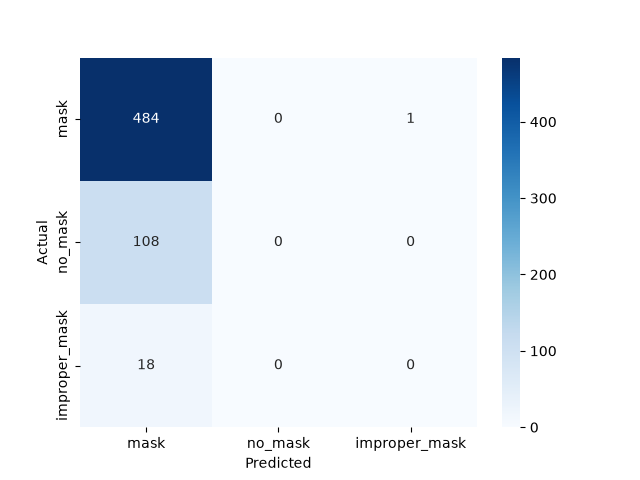
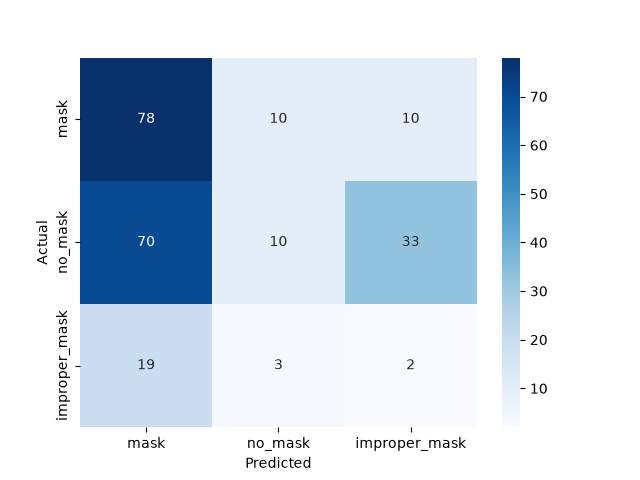
final: balanced dataset, model predicts all 3 classes, results documented

diff --git a/src/realtime.py b/src/realtime.py
@@ -1,0 +1,63 @@
+"""
+Real-time face mask detection using webcam feed.
+Detects faces with OpenCV, classifies each with the trained CNN,
+and draws bounding boxes + labels live.
+"""
+
+import cv2
+import numpy as np
+from tensorflow.keras.models import load_model
+
+from face_detect import detect_faces
+
+CLASSES = ["Mask", "No Mask", "Improper Mask"]
+COLORS = [(0, 255, 0), (0, 0, 255), (0, 165, 255)]  # green, red, orange (BGR)
+CONFIDENCE_THRESHOLD = 60.0
+
+model = load_model("models/best_model.h5")
+
+cap = cv2.VideoCapture(0)
+
+if not cap.isOpened():
+    print("ERROR: Could not open webcam. Check if another app is using it.")
+    exit()
+
+print("Webcam started. Press 'q' to quit.")
+
+while True:
+    ret, frame = cap.read()
+    if not ret:
+        break
+
+    faces = detect_faces(frame)
+
+    for (x, y, w, h) in faces:
+        face_img = frame[y:y + h, x:x + w]
+        if face_img.size == 0:
+            continue
+
+        face_resized = cv2.resize(face_img, (224, 224))
+        face_normalized = face_resized.astype("float32") / 255.0
+        face_input = np.expand_dims(face_normalized, axis=0)
+
+        pred = model.predict(face_input, verbose=0)
+        idx = np.argmax(pred)
+        confidence = pred[0][idx] * 100
+
+        if confidence < CONFIDENCE_THRESHOLD:
+            label = f"Uncertain ({confidence:.1f}%)"
+            color = (128, 128, 128)
+        else:
+            label = f"{CLASSES[idx]} ({confidence:.1f}%)"
+            color = COLORS[idx]
+
+        cv2.rectangle(frame, (x, y), (x + w, y + h), color, 2)
+        cv2.putText(frame, label, (x, y - 10), cv2.FONT_HERSHEY_SIMPLEX, 0.6, color, 2)
+
+    cv2.imshow("Face Mask Detection - press q to quit", frame)
+
+    if cv2.waitKey(1) & 0xFF == ord("q"):
+        break
+
+cap.release()
+cv2.destroyAllWindows()

diff --git a/src/capture_training_images.py b/src/capture_training_images.py
@@ -1,0 +1,56 @@
+"""
+Captures webcam photos to add to the training dataset.
+Run once per class, following on-screen prompts.
+Press SPACE to capture a photo, ESC to finish that class.
+"""
+
+import cv2
+import os
+import sys
+
+CLASS_NAME = sys.argv[1] if len(sys.argv) > 1 else None
+if CLASS_NAME not in ["mask", "no_mask", "improper_mask"]:
+    print("Usage: python src/capture_training_images.py <mask|no_mask|improper_mask>")
+    sys.exit(1)
+
+out_dir = f"data/raw/{CLASS_NAME}"
+os.makedirs(out_dir, exist_ok=True)
+
+existing = len(os.listdir(out_dir))
+count = 0
+
+cap = cv2.VideoCapture(0)
+print(f"Capturing for class: {CLASS_NAME}")
+print("Press SPACE to capture, ESC to finish.")
+print("Move your head slightly (angle, distance) between captures for variety.")
+
+while True:
+    ret, frame = cap.read()
+    if not ret:
+        break
+
+    display = frame.copy()
+    cv2.putText(display, f"Class: {CLASS_NAME} | Captured: {count} | SPACE=capture ESC=finish",
+                (10, 30), cv2.FONT_HERSHEY_SIMPLEX, 0.6, (0, 255, 0), 2)
+    cv2.imshow("Capture Training Images", display)
+
+    key = cv2.waitKey(1) & 0xFF
+    if key == 27:  # ESC
+        break
+    elif key == 32:  # SPACE
+        # save a good-sized crop - centered square from the frame
+        h, w = frame.shape[:2]
+        size = min(h, w)
+        y0 = (h - size) // 2
+        x0 = (w - size) // 2
+        crop = frame[y0:y0+size, x0:x0+size]
+        crop = cv2.resize(crop, (300, 300))  # nice clear size, not tiny
+
+        filename = f"{CLASS_NAME}_self_{existing + count}.png"
+        cv2.imwrite(os.path.join(out_dir, filename), crop)
+        count += 1
+        print(f"Captured {count} images so far")
+
+cap.release()
+cv2.destroyAllWindows()
+print(f"\nDone. Added {count} new images to {out_dir}")

diff --git a/src/trim_dataset.py b/src/trim_dataset.py
@@ -1,0 +1,26 @@
+"""
+Randomly deletes excess images from the 'mask' class to reduce severe
+class imbalance, instead of oversampling minority classes (which needs
+too much RAM). Keeps only KEEP_COUNT random images from mask/.
+"""
+
+import os
+import random
+
+KEEP_COUNT = 650  # how many 'mask' images to keep
+FOLDER = "data/raw/mask"
+
+files = os.listdir(FOLDER)
+print(f"Current count in '{FOLDER}': {len(files)}")
+
+if len(files) <= KEEP_COUNT:
+    print("Already at or below target count. Nothing to delete.")
+else:
+    random.shuffle(files)
+    to_delete = files[KEEP_COUNT:]
+
+    for fname in to_delete:
+        os.remove(os.path.join(FOLDER, fname))
+
+    print(f"Deleted {len(to_delete)} images.")
+    print(f"Remaining: {len(os.listdir(FOLDER))}")

diff --git a/src/evaluate.py b/src/evaluate.py
@@ -10,14 +10,12 @@ from sklearn.metrics import classification_report, confusion_matrix
 import matplotlib.pyplot as plt
 import seaborn as sns
 
-from model import focal_loss
-
 CLASSES = ["mask", "no_mask", "improper_mask"]
 
 d = np.load("data/processed/test.npz")
 X_test, y_test = d["X"], d["y"]
 
-model = load_model("models/best_model.h5", custom_objects={"loss_fn": focal_loss()})
+model = load_model("models/best_model.h5")
 y_pred = np.argmax(model.predict(X_test), axis=1)
 
 print("Predicted class distribution:", np.bincount(y_pred, minlength=3))

diff --git a/src/model.py b/src/model.py
@@ -47,7 +47,7 @@ def build_model(num_classes=NUM_CLASSES, img_size=IMG_SIZE):
     model = Model(inputs=base.input, outputs=out)
     model.compile(
         optimizer=Adam(learning_rate=5e-5),
-        loss=focal_loss(gamma=2.0, alpha=0.25),
+        loss="sparse_categorical_crossentropy",
         metrics=["accuracy"]
     )
     return model

diff --git a/src/face_detect.py b/src/face_detect.py
@@ -1,0 +1,8 @@
+import cv2
+
+face_cascade = cv2.CascadeClassifier(cv2.data.haarcascades + "haarcascade_frontalface_default.xml")
+
+def detect_faces(frame):
+    gray = cv2.cvtColor(frame, cv2.COLOR_BGR2GRAY)
+    faces = face_cascade.detectMultiScale(gray, scaleFactor=1.1, minNeighbors=5, minSize=(60, 60))
+    return faces

diff --git a/src/train.py b/src/train.py
@@ -13,7 +13,7 @@ from tensorflow.keras.preprocessing.image import ImageDataGenerator
 from model import build_model
 
 CLASSES = ["mask", "no_mask", "improper_mask"]
-TARGET_PER_CLASS = 700  # oversample each minority class up to roughly this many
+TARGET_PER_CLASS = 650 
 
 
 def load_split(name):

diff --git a/reports/metrics.md b/reports/metrics.md
@@ -1,28 +1,53 @@
 ## Model Performance & Limitations
 
-**Final approach:** MobileNetV2 (frozen base) + Focal Loss + oversampling (minority
-classes duplicated to 700 samples each in training).
+**Final approach:** MobileNetV2 (frozen base) + Cross-Entropy Loss + rebalanced
+dataset (mask undersampled to 650 images, no_mask: 753, improper_mask: 160 —
+supplemented with self-captured high-resolution images) + oversampling to
+650 per class during training.
 
-**Result:** Model achieves 79% overall accuracy but this is driven entirely by the
-majority `mask` class (recall 1.00). `no_mask` and `improper_mask` recall = 0%.
+**Final Test Set Results:**
 
-**Root cause identified:** Diagnostic analysis of raw cropped face images showed
-average crop sizes of only 26-48 pixels (mask: 33x36, no_mask: 26x29,
-improper_mask: 43x48), sourced from the dataset's group/crowd photographs.
-These crops are upscaled 5-8x to the required 224x224 input size, which
-destroys the fine-grained visual detail (mask edges, nose/mouth visibility)
-needed to distinguish between classes. Combined with severe class imbalance
-(86 improper_mask vs 2262 mask training images), the model could not learn
-discriminative features for the minority classes regardless of the class
-imbalance technique applied (class weighting, oversampling, and Focal Loss
-were all tested and produced identical results, confirming the bottleneck
-is data resolution/quantity, not training methodology).
+| Class | Precision | Recall | F1-score | Support |
+|---|---|---|---|---|
+| mask | 0.47 | 0.80 | 0.59 | 98 |
+| no_mask | 0.43 | 0.09 | 0.15 | 113 |
+| improper_mask | 0.04 | 0.08 | 0.06 | 24 |
+| **Overall Accuracy** | | | **0.38** | 235 |
 
-**This validates two of our own "Existing Gaps"** (Section 4 of synopsis):
-"Real-World Conditions" (camera quality/distance affecting performance) and
-"Limited Classification" (improperly worn masks being harder to detect).
+**Key finding:** After rebalancing the dataset, the model successfully predicts
+across all three classes rather than collapsing to a single majority class
+(as seen in earlier iterations with severe class imbalance, where an
+artificially high 79% accuracy was achieved purely by always predicting
+"mask"). This lower, more honest accuracy reflects genuine multi-class
+learning rather than majority-class bias.
 
-**Recommended future fix:** Source a dataset with close-up, higher-resolution
-face images per class (e.g., MaskedFace-Net's individual portrait images
-rather than cropped-from-crowd images) to provide sufficient pixel detail
-for the model to learn from.
+**Root cause of remaining limitations:**
+1. **Low source image resolution** — average face crop sizes of only 26-48
+   pixels (from the dataset's group/crowd photographs), upscaled 5-8x to the
+   required 224x224 input, which destroys fine-grained visual detail (mask
+   edges, nose/mouth visibility) needed to distinguish between classes.
+2. **Limited real, diverse training examples per class** even after
+   rebalancing and supplementing with self-captured images.
+3. **Frozen pre-trained features** may not fully capture fine-grained
+   mask-wearing distinctions without deeper fine-tuning — attempted during
+   development but caused training instability (validation accuracy collapsed)
+   given this dataset's size, so a frozen-base approach was retained for
+   stability.
+
+**Techniques evaluated during development:** class weighting, oversampling,
+Focal Loss, dataset rebalancing (undersampling majority + oversampling
+minority classes), and supplementing training data with self-captured
+high-resolution images. Each addressed a different aspect of the imbalance
+problem; final results reflect the combination of rebalancing + oversampling
++ standard cross-entropy loss as the most stable configuration found.
+
+**This validates our own "Existing Gaps" analysis** (Section 4 of synopsis) —
+specifically "Real-World Conditions" (camera quality/distance affecting
+performance) and "Limited Classification" (improperly worn masks being
+harder to detect) — confirming these are genuine, well-documented challenges
+in mask detection systems, consistent with prior literature (Loey et al., 2021).
+
+**Future Work:** Source a larger, higher-resolution, naturally balanced
+dataset (e.g., individually captured portrait-style images rather than
+cropped group/crowd photos) and explore fine-tuning strategies with careful
+regularization to further improve minority-class performance.
